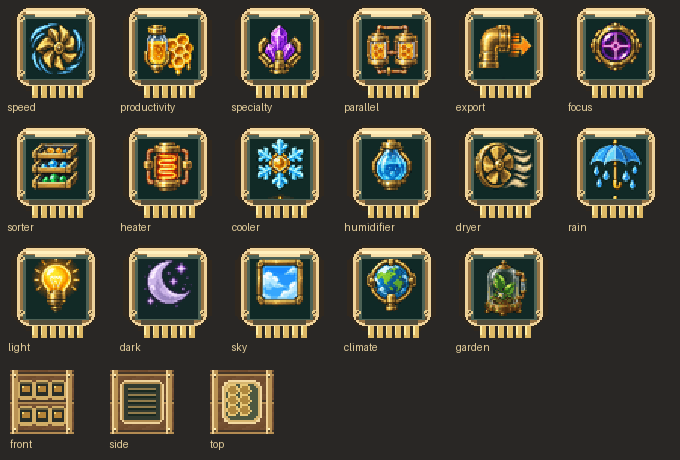
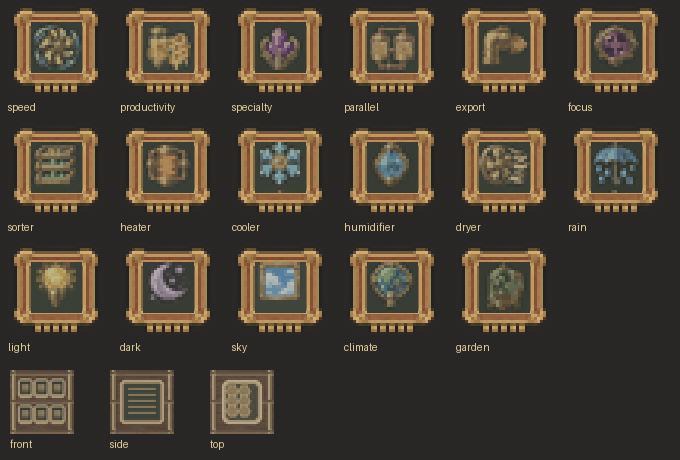
Release 0.6.5: match module and block textures to original GUI

diff --git a/tools/build_assets.py b/tools/build_assets.py
@@ -1,119 +1,16 @@
+"""Build block/item textures and previews; preserve the accepted GUI texture."""
+import object_assets
+import module_art
 from pathlib import Path
-from PIL import Image, ImageDraw
-import json
+from PIL import Image,ImageDraw
 p=Path(__file__).resolve().parents[1];base=p/'src/main/resources/assets/advancedapiary/textures'
-(base/'gui').mkdir(parents=True,exist_ok=True);(base/'blocks').mkdir(exist_ok=True);(base/'items').mkdir(exist_ok=True)
-im=Image.new('RGBA',(256,256));d=ImageDraw.Draw(im)
-def rect(x,y,w,h,c):
- if w>0 and h>0:d.rectangle((x,y,x+w-1,y+h-1),fill=c)
-def panel(x,y,w,h,fill,edge='#b99a61',r=5):
- d.rounded_rectangle((x,y,x+w-1,y+h-1),r,fill=edge);d.rounded_rectangle((x+1,y+1,x+w-2,y+h-2),max(1,r-1),fill=fill)
-def hexagon(x,y,c):d.line([(x+2,y),(x+5,y),(x+7,y+3),(x+5,y+6),(x+2,y+6),(x,y+3),(x+2,y)],fill=c)
-panel(0,0,248,238,'#795134','#392a21',11);panel(2,2,244,234,'#94673e','#d6b273',9)
-for y in range(5,234,7):
- for x in range(5,243,24):d.line((x,y,x+9+(x*7+y)%11,y),fill='#8b603b')
-panel(5,4,238,14,'#44372b','#b99960',6)
-slots=[]
-def slot(x,y,group):
- rect(x,y,18,18,'#71664e');rect(x+1,y+1,17,17,'#f1ddb0');rect(x+1,y+1,16,16,'#83785a');rect(x+2,y+2,15,15,'#918566')
- slots.append(dict(x=x+1,y=y+1,group=group))
- if group=='queen':d.line([(x+5,y+7),(x+6,y+12),(x+12,y+12),(x+13,y+7),(x+10,y+9),(x+9,y+5),(x+7,y+9),(x+5,y+7)],fill='#d3b967')
- if group=='module':hexagon(x+5,y+5,'#b4a174')
-for i in range(6):
- x=8+i%3*56;y=24+i//3*48
- panel(x,y,50,45,'#e4ce9b','#ad905b',5)
- d.rounded_rectangle((x+2,y+2,x+47,y+10),3,fill='#79603a')
- slot(x+4,y+14,'queen');panel(x+3,y+36,44,6,'#736347','#b69b60',2)
- # Small honeycomb port next to status, distinct from inventory socket.
- hexagon(x+34,y+16,'#c1a164')
-panel(178,21,62,103,'#d3bd8b','#ad905b',5)
-# Slots appended in container order: queens, internal plants, modules, products, player.
-for i in range(4):slot(10+i*18,134,'flowers')
-for i in range(8):slot(88+i*18,134,'module')
-for row in range(5):
- for col in range(3):slot(182+18*col,32+row*18,'output')
-panel(37,159,174,78,'#b8a078','#c8b184',5)
-for row in range(3):
- for col in range(9):slot(42+18*col,159+row*18,'inventory')
-for col in range(9):slot(42+18*col,217,'hotbar')
-for yy,c in enumerate(['#f7dda1','#d5a145','#d5a145','#8e622c']):rect(0,240+yy,42,1,c)
-d.line([(0,249),(1,250),(4,247)],fill='#b6d68d');rect(8,247,1,3,'#ffcb6a');rect(8,251,1,1,'#ffcb6a');rect(14,249,4,1,'#c7bc9c')
-im.save(base/'gui/advanced_apiary.png')
-assert len(slots)==69
-for i,a in enumerate(slots):
- for b in slots[i+1:]:assert not(a['x']<b['x']+16 and b['x']<a['x']+16 and a['y']<b['y']+16 and b['y']<a['y']+16)
-(p/'gui-layout.json').write_text(json.dumps(dict(width=248,height=238,slots=slots),indent=2))
-labels=json.loads((p/'tools/gui-labels.json').read_text())
-java=['package ru.advancedapiary.client;','/** Generated from tools/gui-labels.json. */','public final class GuiTextLayout {']
-for name,box in labels.items():
- values=','.join(str(float(v))+'F' for v in box[:5])+','+('1F' if box[5] else '0F')
- java.append('    public static final float[] '+name+'={'+values+'};')
-java.append('    private GuiTextLayout(){}\n}')
-(p/'src/main/java/ru/advancedapiary/client/GuiTextLayout.java').write_text('\n'.join(java)+'\n')
-from preview_font import GameFont
-font=GameFont()
-preview=im.crop((0,0,248,238)).resize((992,952),Image.Resampling.NEAREST)
-font.draw(preview,'Изолированная пасека',labels['TITLE'],'#f4dfb4')
-font.draw(preview,'Работают: 0 / 6',labels['COUNTER'],'#f4dfb4')
-font.draw(preview,'Продукция',labels['PRODUCTS'],'#493a25')
-for i in range(6):font.draw(preview,'Матка '+str(i+1),labels['QUEEN'],'#fff0c9',(i%3)*56,(i//3)*48)
-font.draw(preview,'Растения',labels['PLANTS'],'#f4dfb4')
-font.draw(preview,'Модули улучшений · 8',labels['MODULES'],'#f4dfb4')
-font.draw(preview,'Растения не расходуются. Каждой матке нужен подходящий вид.',labels['NOTE'],'#f4dfb4')
-preview.save(p/'gui-preview-unlocked.png')
-locked=preview.copy();ld=ImageDraw.Draw(locked)
-for i in range(4):
- x=10+i*18;y=134
- def lr(a,b,w,h,c):ld.rectangle(((x+a)*4,(y+b)*4,(x+a+w)*4-1,(y+b+h)*4-1),fill=c)
- lr(1,1,16,16,'#625c49');lr(6,6,6,2,'#d6bb7c');lr(5,8,8,5,'#d6bb7c');lr(7,9,3,2,'#625c49')
-locked.paste(im.crop((10,153,238,159)).resize((912,24),Image.Resampling.NEAREST),(40,612))
-font.draw(locked,'Слоты растений открываются модулем внутреннего сада.',labels['NOTE'],'#f4dfb4')
-locked.save(p/'gui-preview.png')
-# Original 16px block textures: brass sealed panels and six small chamber ports.
-for name in ['apiary_front','apiary_side','apiary_top']:
- t=Image.new('RGBA',(16,16),'#815534');td=ImageDraw.Draw(t)
- for y in [0,5,10,15]:td.line((0,y,15,y),fill='#543d2b')
- td.rectangle((1,1,14,14),outline='#c7a45c')
- if name=='apiary_front':
-  for y in [4,9]:
-   for x in [3,7,11]:td.rectangle((x,y,x+2,y+2),fill='#3e3a2a');td.point((x,y),fill='#e9bd64')
- elif name=='apiary_top':
-  td.rectangle((4,4,11,11),fill='#c89a44');td.rectangle((6,6,9,9),fill='#715733')
- else:
-  td.rectangle((3,4,12,11),fill='#a67d40');td.line((4,7,11,7),fill='#694b2d')
- t.save(base/'blocks'/f'{name}.png')
-t=Image.new('RGBA',(16,16));td=ImageDraw.Draw(t);td.rectangle((2,2,13,13),fill='#3f4d43',outline='#cfaa59');td.rectangle((5,5,10,10),fill='#e1ba59');td.rectangle((7,4,8,11),fill='#f5dda2');t.save(base/'items/module.png')
-print('GUI: 6 queens, 4 internal plants, 8 modules, 15 output, 36 player slots validated')
-
-# Distinct item textures per module type.
-for name,color,symbol in [('speed','#7ab8db','arrow'),('productivity','#eac65a','plus'),('specialty','#c791e4','diamond'),('parallel','#88c398','parallel'),('export','#d99e70','export'),('focus','#d792c4','target'),('sorter','#b5a8e2','sort'),('heater','#e6965f','heat'),('cooler','#8fcce0','cold'),('humidifier','#77badb','drop'),('dryer','#d1bb70','dry'),('rain','#72aebe','roof'),('light','#edda78','sun'),('dark','#a5a0cc','moon'),('sky','#95c8df','sky'),('climate','#b9d1a5','control'),('garden','#99cf74','plant')]:
- t=Image.new('RGBA',(16,16));td=ImageDraw.Draw(t)
- td.rounded_rectangle((1,1,14,14),2,fill='#435246',outline='#d6b46c');td.rectangle((3,3,12,12),fill='#26382f')
- if symbol=='arrow':td.polygon([(5,4),(11,8),(5,11),(7,8)],fill=color)
- elif symbol=='plus':td.rectangle((7,4,8,11),fill=color);td.rectangle((4,7,11,8),fill=color)
- elif symbol=='diamond':td.polygon([(8,3),(12,8),(8,12),(4,8)],fill=color)
- elif symbol=='parallel':td.rectangle((4,4,6,11),fill=color);td.rectangle((9,4,11,11),fill=color)
- elif symbol=='export':td.line((4,7,11,7),fill=color,width=2);td.polygon([(9,4),(12,7),(9,10)],fill=color);td.line((4,4,4,11),fill=color)
- elif symbol=='target':td.ellipse((4,4,11,11),outline=color);td.rectangle((7,7,8,8),fill=color)
- elif symbol=='sort':
-  for n in range(3):td.line((4,5+3*n,6+2*n,5+3*n),fill=color)
-
- elif symbol=='heat':td.polygon([(7,3),(11,8),(10,11),(6,12),(4,9),(6,7)],fill=color)
- elif symbol=='cold':td.line((7,3,7,12),fill=color);td.line((3,7,12,7),fill=color);td.line((4,4,11,11),fill=color);td.line((4,11,11,4),fill=color)
- elif symbol=='drop':td.polygon([(8,3),(4,9),(5,11),(10,11),(11,9)],fill=color)
- elif symbol=='dry':td.line((4,5,11,5),fill=color);td.line((4,8,11,8),fill=color);td.line((4,11,11,11),fill=color)
- elif symbol=='roof':td.line((3,7,8,3,12,7),fill=color,width=2);td.line((5,9,5,12),fill=color);td.line((10,9,10,12),fill=color)
- elif symbol=='sun':td.ellipse((5,5,10,10),fill=color);td.line((3,3,4,4),fill=color);td.line((12,3,11,4),fill=color);td.line((3,12,4,11),fill=color);td.line((12,12,11,11),fill=color)
- elif symbol=='moon':td.ellipse((4,3,11,12),fill=color);td.ellipse((7,2,13,9),fill='#26382f')
- elif symbol=='sky':td.rectangle((4,4,11,11),outline=color);td.line((5,6,10,6),fill=color)
- elif symbol=='control':td.line((4,5,11,5),fill=color);td.line((4,10,11,10),fill=color);td.rectangle((5,4,6,6),fill=color);td.rectangle((9,9,10,11),fill=color)
- elif symbol=='plant':td.line((8,5,8,12),fill=color);td.ellipse((3,4,7,7),fill=color);td.ellipse((8,3,12,6),fill=color);td.line((5,12,11,12),fill='#d3a76b')
- t.save(base/'items'/('module_'+name+'.png'))
-
-opened=Image.open(p/'gui-preview-unlocked.png').convert('RGBA')
-garden_icon=Image.open(base/'items/module_garden.png').convert('RGBA').resize((64,64),Image.Resampling.NEAREST)
-opened.alpha_composite(garden_icon,(89*4,135*4))
-opened.save(p/'gui-preview-unlocked.png')
-
-# Final high resolution resources.
-import refine_assets
+# This example uses the actual native slot coordinates and the shipped item textures.
+demo=Image.open(p/'gui-preview-unlocked.png').convert('RGBA')
+for i,name in enumerate(['garden','speed','productivity','parallel','climate','rain','light','sky']):
+ tex=Image.open(base/('items/module_'+name+'.png')).convert('RGBA')
+ demo.alpha_composite(tex,((89+18*i)*4,135*4))
+demo.save(p/'gui-style-preview.png')
+preview=Image.new('RGB',(680,460),'#292725');preview.paste(Image.open(p/'modules-preview.png'),(0,0));d=ImageDraw.Draw(preview)
+for i,name in enumerate(['front','side','top']):
+ tex=Image.open(base/('blocks/apiary_'+name+'.png'));preview.paste(tex,(10+i*100,370),tex);d.text((10+i*100,438),name,fill='#e4ce9b')
+preview.save(p/'assets-preview.png')

diff --git a/tools/refine_assets.py b/tools/refine_assets.py
@@ -1,47 +1,2 @@
-"""Original brass cartridges and carved hive textures; no borrowed mod assets."""
-from pathlib import Path
-from PIL import Image,ImageDraw,ImageEnhance
-p=Path(__file__).resolve().parents[1];base=p/'src/main/resources/assets/advancedapiary/textures'
-# Retain the semantic glyphs, rebuild the cartridge casing at 32px.
-for f in sorted((base/'items').glob('module_*.png')):
- old=Image.open(f).convert('RGBA');icon=old.crop((3,3,13,13)).resize((14,14),Image.Resampling.NEAREST)
- t=Image.new('RGBA',(32,32));d=ImageDraw.Draw(t)
- d.polygon([(6,1),(25,1),(30,6),(30,24),(25,29),(6,29),(1,24),(1,6)],fill='#30281f')
- d.rounded_rectangle((3,2,28,27),4,fill='#987444',outline='#f0d39a',width=1)
- d.line((6,3,25,3),fill='#fff0be');d.line((4,25,27,25),fill='#594529')
- d.rectangle((6,5,25,24),fill='#172b29',outline='#4d6256');d.line((7,8,7,21,10,21),fill='#6b8562');d.line((24,9,24,22,21,22),fill='#6b8562');t.alpha_composite(icon,(9,8))
- d=ImageDraw.Draw(t)
- for x in [4,27]:
-  for y in [5,23]:d.rectangle((x,y,x+1,y+1),fill='#e6c989');d.point((x+1,y+1),fill='#59452d')
- for x in range(8,25,3):d.rectangle((x,28,x+1,31),fill='#deb965');d.point((x,28),fill='#fff0a8')
- d.rectangle((9,4,22,4),fill='#f6dfaa');d.rectangle((7,25,24,26),fill='#534d3b')
- t.save(f)
-for name in ['front','side','top']:
- t=Image.new('RGBA',(32,32),'#714d32');d=ImageDraw.Draw(t)
- for y in range(32):
-  for x in range(32):
-   v=((x*17+y*7+(y//5)*11)%9)-4;t.putpixel((x,y),(116+v,79+v,49+v,255))
- for y in [1,15,30]:d.line((0,y,31,y),fill='#443629');d.line((0,y+1,31,y+1),fill='#b28a52')
- for x in [1,28]:d.rectangle((x,0,x+2,31),fill='#ba9254');d.line((x,0,x,31),fill='#f0d397')
- if name=='front':
-  for y in [6,19]:
-   for x in [5,13,21]:
-    d.rounded_rectangle((x-1,y-1,x+6,y+8),2,fill='#d1ad66');d.rectangle((x,y,x+5,y+6),fill='#292e27');d.line((x,y,x+5,y),fill='#675d3c');d.rectangle((x+1,y+2,x+4,y+4),fill='#b48337');d.point((x+1,y+2),fill='#f5d774')
- elif name=='side':
-  d.rounded_rectangle((5,5,26,26),3,fill='#b18b50',outline='#efd29a');d.rectangle((7,7,24,24),fill='#313a30')
-  for y in range(9,24,3):d.line((9,y,22,y),fill='#927c4c');d.line((9,y+1,22,y+1),fill='#192820')
- else:
-  d.rounded_rectangle((6,5,25,26),4,fill='#d6b46d',outline='#f3d9a1');d.rounded_rectangle((8,7,23,24),3,fill='#4e5840')
-  for y in range(10,23,5):
-   for x in range(11,23,6):d.regular_polygon((x,y,3),6,fill='#ae873e',outline='#e8c879')
- for x in [2,29]:
-  for y in [2,29]:d.point((x,y),fill='#fff0ba');d.point((x,y+1),fill='#5b492c')
- t.save(base/'blocks'/('apiary_'+name+'.png'))
-# Replace placeholder symbols with detailed emblem assets.
-import module_art
-# Contact sheet of final actual resources, at nearest-neighbour scale.
-files=list(sorted((base/'items').glob('module_*.png')))+list(sorted((base/'blocks').glob('*.png')))
-out=Image.new('RGB',(640,((len(files)+7)//8)*96),'#292725');d=ImageDraw.Draw(out)
-for i,f in enumerate(files):
- x=(i%8)*80;y=(i//8)*96;tex=Image.open(f).convert('RGBA').resize((64,64),Image.Resampling.NEAREST);out.paste(tex,(x+8,y+4),tex);d.text((x+2,y+72),f.stem.replace('module_','').replace('apiary_',''),fill='#e4ce9b')
-out.save(p/'assets-preview.png')
+"""Compatibility entry point: the unified generator owns all current textures."""
+import build_assets

diff --git a/tools/module_art.py b/tools/module_art.py
@@ -3,6 +3,7 @@ Source masters are shipped so the exact texture build is reproducible offline.
 """
 from pathlib import Path
 from PIL import Image,ImageDraw
+from matte_finish import matte
 p=Path(__file__).resolve().parents[1]
 a=p/'tools/art';base=p/'src/main/resources/assets/advancedapiary/textures/items'
 names=['speed','productivity','specialty','parallel','export','focus','sorter','heater','cooler','humidifier','dryer','rain','light','dark','sky','climate']
@@ -13,18 +14,11 @@ for i,name in enumerate(names+['garden']):
  if name=='garden':icon=Image.open(a/'garden-emblem.png').convert('RGBA')
  else:
   w,h=sheet.size;x=i%4;y=i//4;icon=sheet.crop((x*w//4,y*h//4,(x+1)*w//4,(y+1)*h//4))
- icon=icon.resize((40,40),Image.Resampling.LANCZOS).quantize(colors=48,method=Image.Quantize.FASTOCTREE).convert('RGBA')
- # A 64px native item atlas retains small mechanism detail at larger GUI scales.
- t=Image.new('RGBA',(64,64));d=ImageDraw.Draw(t)
- d.polygon([(12,2),(51,2),(60,12),(60,48),(50,58),(12,58),(2,48),(2,12)],fill='#30281f')
- d.rounded_rectangle((6,4,57,55),8,fill='#987444',outline='#f0d39a',width=2)
- d.line((12,6,50,6),fill='#fff0be',width=2);d.line((8,50,54,50),fill='#594529',width=2)
- d.rectangle((10,9,53,51),fill='#172b29',outline='#4d6256',width=2)
- t.alpha_composite(icon,(12,11));d=ImageDraw.Draw(t)
- for x in [8,54]:
-  for y in [10,46]:d.ellipse((x-1,y-1,x+2,y+2),fill='#e6c989');d.line((x,y+1,x+1,y),fill='#59452d')
- for x in range(16,50,6):d.rectangle((x,56,x+3,63),fill='#deb965');d.line((x,56,x,61),fill='#fff0a8')
- d.rectangle((18,8,44,9),fill='#f6dfaa');d.rectangle((14,52,48,54),fill='#534d3b')
+ icon=matte(icon.resize((17,17),Image.Resampling.LANCZOS),24).resize((34,34),Image.Resampling.NEAREST)
+ # Shared shaded chassis is an original asset, composited into a normal item PNG.
+ t=Image.new('RGBA',(64,64));ImageDraw.Draw(t).rectangle((13,13,50,46),fill='#83785a')
+ t.alpha_composite(Image.open(a/'module-chassis-matte.png').convert('RGBA').resize((32,32),Image.Resampling.LANCZOS).resize((64,64),Image.Resampling.NEAREST))
+ t.alpha_composite(icon,(15,13))
  t.save(base/('module_'+name+'.png'))
 preview=Image.new('RGB',(680,3*120),'#292725');d=ImageDraw.Draw(preview)
 for i,name in enumerate(names+['garden']):
@@ -33,4 +27,8 @@ preview.save(p/'modules-preview.png')
 # Refresh the installed-garden GUI example from the actual final item texture.
 f=p/'gui-preview-unlocked.png'
 if f.exists():
- opened=Image.open(f).convert('RGBA');opened.alpha_composite(Image.open(base/'module_garden.png').convert('RGBA'),(89*4,135*4));opened.save(f)
+ opened=Image.open(f).convert('RGBA')
+ atlas=Image.open(p/'src/main/resources/assets/advancedapiary/textures/gui/advanced_apiary.png').convert('RGBA')
+ unit=atlas.width//256
+ opened.paste(atlas.crop((89*unit,135*unit,105*unit,151*unit)).resize((64,64),Image.Resampling.NEAREST),(89*4,135*4))
+ opened.alpha_composite(Image.open(base/'module_garden.png').convert('RGBA'),(89*4,135*4));opened.save(f)

diff --git a/tools/object_assets.py b/tools/object_assets.py
@@ -1,0 +1,28 @@
+"""Build block textures only. The accepted GUI is deliberately not regenerated."""
+from pathlib import Path
+from PIL import Image,ImageDraw
+from matte_finish import matte
+p=Path(__file__).resolve().parents[1];base=p/'src/main/resources/assets/advancedapiary/textures'
+master=Image.open(p/'tools/art/gui-materials.png').convert('RGBA');mw,mh=master.size
+materials={'wood':master.crop((4,4,mw//2-4,mh//2-4))}
+for name in ['front','side','top']:
+ b=materials['wood'].resize((64,64),Image.Resampling.NEAREST);bd=ImageDraw.Draw(b)
+ for x in [2,58]:
+  bd.rectangle((x,0,x+3,63),fill='#b89453');bd.line((x,0,x,63),fill='#efcf8a');bd.line((x+3,0,x+3,63),fill='#4c3623')
+ for y in [2,30,60]:bd.line((0,y,63,y),fill='#422e21',width=2);bd.line((0,y+2,63,y+2),fill='#b98d52')
+ if name=='front':
+  for y in [11,37]:
+   for x in [10,26,42]:
+    bd.rounded_rectangle((x-2,y-2,x+12,y+16),3,fill='#c79f56',outline='#f0d293',width=1)
+    bd.rectangle((x,y,x+10,y+12),fill='#182e27');bd.rectangle((x+2,y+4,x+8,y+9),fill='#986e2d');bd.line((x+2,y+4,x+8,y+4),fill='#edce78')
+ elif name=='side':
+  bd.rounded_rectangle((10,10,53,53),5,fill='#ad8348',outline='#e7c78d',width=2);bd.rectangle((14,14,49,49),fill='#182e27')
+  for y in range(18,48,6):bd.line((18,y,45,y),fill='#aa8b50',width=2);bd.line((18,y+2,45,y+2),fill='#0b1917')
+ else:
+  bd.rounded_rectangle((12,10,51,53),7,fill='#c8a261',outline='#eed69b',width=2);bd.rounded_rectangle((16,14,47,49),5,fill='#24392d')
+  for y in range(21,47,10):
+   for x in range(22,46,12):bd.regular_polygon((x,y,6),6,fill='#a67c35',outline='#e4bf6d')
+ for x in [4,60]:
+  for y in [4,59]:bd.ellipse((x-1,y-1,x+1,y+1),fill='#efcf8a');bd.point((x,y),fill='#493422')
+ b=matte(b.resize((32,32),Image.Resampling.LANCZOS),32).resize((64,64),Image.Resampling.NEAREST)
+ b.save(base/'blocks'/('apiary_'+name+'.png'))

diff --git a/tools/matte_finish.py b/tools/matte_finish.py
@@ -1,0 +1,12 @@
+"""Object-only finish matched to the accepted wood/wax GUI; never edits GUI pixels."""
+from PIL import Image,ImageEnhance
+
+def matte(im,colors=32):
+ im=im.convert('RGBA');alpha=im.getchannel('A')
+ # Shared compressed contrast and restrained color keep symbols readable without glow.
+ rgb=ImageEnhance.Color(im.convert('RGB')).enhance(.62)
+ rgb=ImageEnhance.Contrast(rgb).enhance(.68)
+ rgb=Image.blend(rgb,Image.new('RGB',rgb.size,'#ad905b'),.14)
+ # A coarse, deliberate pixel grid matches the original interface rather than smooth metal.
+ rgb=rgb.quantize(colors=colors,method=Image.Quantize.MEDIANCUT).convert('RGBA')
+ rgb.putalpha(alpha);return rgb

diff --git a/src/main/java/ru/advancedapiary/AdvancedApiary.java b/src/main/java/ru/advancedapiary/AdvancedApiary.java
@@ -8,7 +8,7 @@ import net.minecraft.init.*;
 import net.minecraft.item.*;
 import net.minecraftforge.oredict.ShapedOreRecipe;
 
-@Mod(modid=AdvancedApiary.ID,name="Advanced Apiary",version="0.6.1",dependencies="required-after:Forestry@[4.2.16,5.0)")
+@Mod(modid=AdvancedApiary.ID,name="Advanced Apiary",version="0.6.5",dependencies="required-after:Forestry@[4.2.16,5.0)")
 public final class AdvancedApiary {
     public static final String ID="advancedapiary";
     @Mod.Instance(ID) public static AdvancedApiary instance;

diff --git a/tools/style_assets.py b/tools/style_assets.py
@@ -1,0 +1,2 @@
+"""Compatibility entry point for object assets only; preserves the accepted GUI."""
+import object_assets
